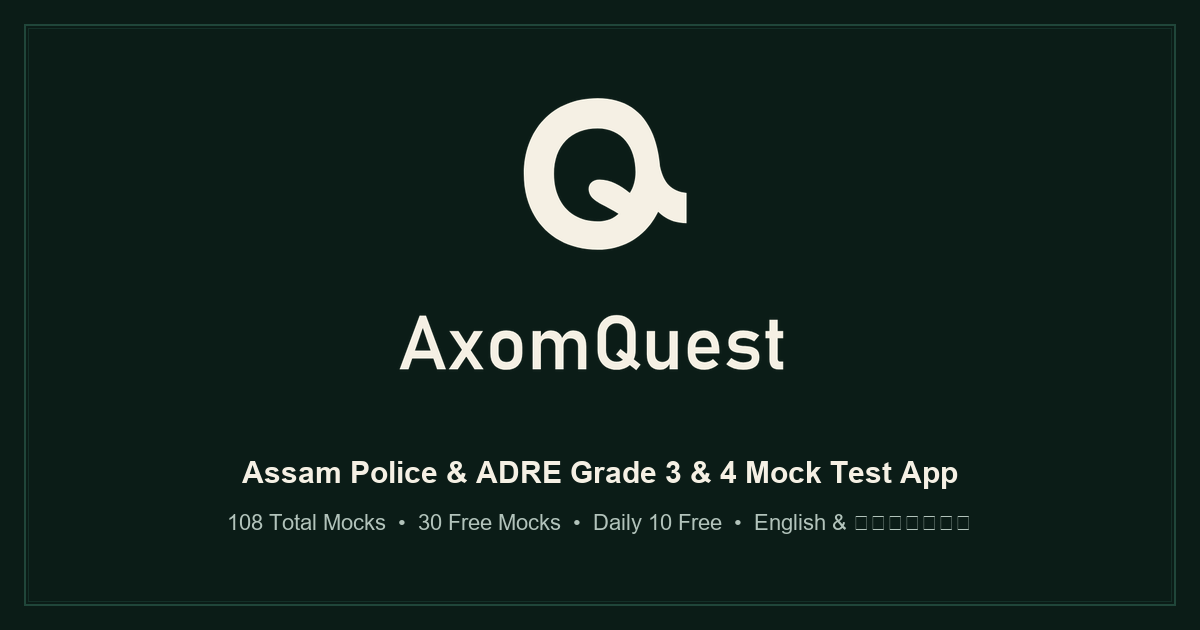
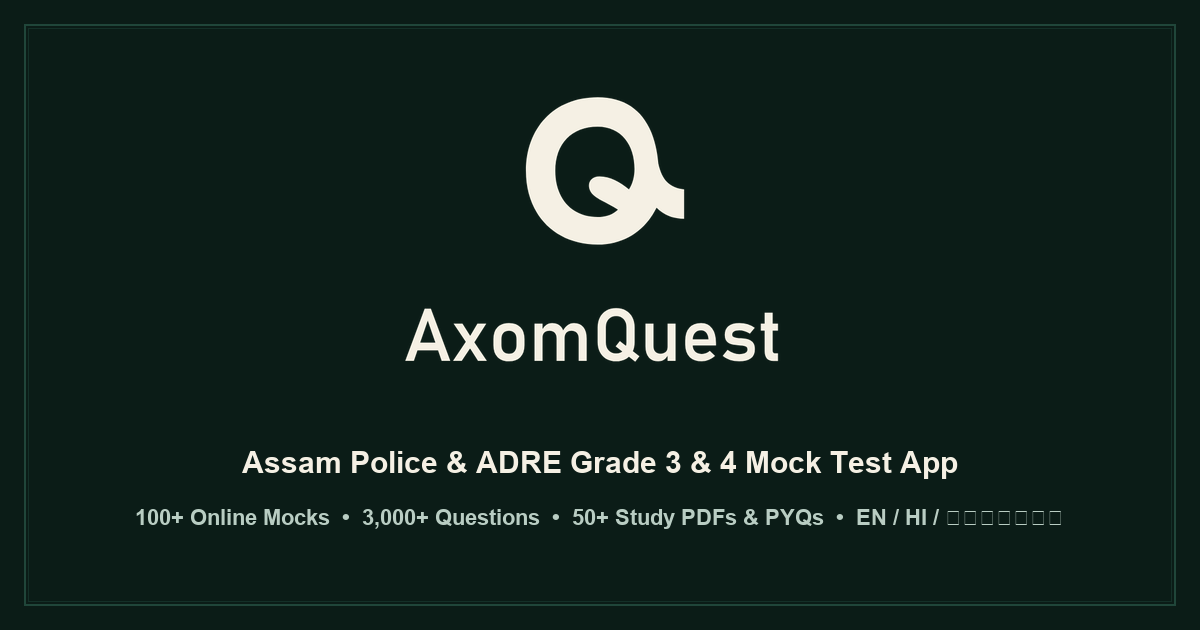
Update mocks count to 100+, questions to 3000+, add Hindi to trust bar, and add 12 free / 50+ Pro study PDFs & PYQs

Changed region(s): [[0.1233, 0.6937, 0.8633, 0.8444], [0.3392, 0.4825, 0.6783, 0.6032], [0.4317, 0.2714, 0.5858, 0.3921]]

diff --git a/index.html b/index.html
@@ -5,9 +5,9 @@
   <meta name="viewport" content="width=device-width, initial-scale=1.0">
   <meta name="theme-color" content="#161A10">
   <title>AxomQuest — Online Mock Tests for Assam Police &amp; ADRE Grade 3 &amp; 4</title>
-  <meta name="description" content="108 online mock tests with authentic negative marking, section-wise analysis and live English / Assamese switch for Assam Police and ADRE Grade 3 &amp; 4 aspirants. 30 free full mocks; AxomQuest Pro at ₹99/month.">
+  <meta name="description" content="100+ online mock tests, 3,000+ practice questions, 50+ study material PDFs &amp; PYQs with live English, Hindi and Assamese switch for Assam Police and ADRE Grade 3 &amp; 4 aspirants. 30 free mocks; AxomQuest Pro at ₹99/month.">
   <meta property="og:title" content="AxomQuest — The mock test that tells you the truth">
-  <meta property="og:description" content="Practice 108 online mocks with authentic scoring for Assam Police and ADRE Grade 3 &amp; 4 examinations. 30 free mocks; upgrade to Pro for ₹99/month.">
+  <meta property="og:description" content="Practice 100+ online mocks, 3,000+ questions, study PDFs &amp; previous year papers for Assam Police and ADRE Grade 3 &amp; 4. 30 free mocks; upgrade to Pro for ₹99/month.">
   <meta property="og:type" content="website">
   <meta property="og:image" content="og-image.png">
   <link rel="icon" type="image/png" sizes="64x64" href="assets/img/icon-64.png">
@@ -23,7 +23,7 @@
     "name": "AxomQuest",
     "operatingSystem": "ANDROID",
     "applicationCategory": "EducationalApplication",
-    "description": "108 online mock tests with authentic negative marking, section-wise scores and an English, Hindi and Assamese switch for Assam Police and ADRE Grade 3 & 4 aspirants. 30 free mocks; AxomQuest Pro monthly subscription at ₹99/month.",
+    "description": "100+ online mock tests, 3,000+ questions, 50+ study materials & PDF notes and previous year papers with English, Hindi and Assamese switch for Assam Police and ADRE Grade 3 & 4 aspirants. 30 free mocks; AxomQuest Pro monthly subscription at ₹99/month.",
     "inLanguage": ["en", "hi", "as"],
     "offers": {
       "@type": "Offer",
@@ -40,12 +40,12 @@
       {
         "@type": "Question",
         "name": "Are the mock tests really free?",
-        "acceptedAnswer": { "@type": "Answer", "text": "Yes. Mocks 001–030 and Daily 10 practice are completely free and supported by ads. To practice premium mocks (031–108), an optional AxomQuest Pro subscription is available." }
+        "acceptedAnswer": { "@type": "Answer", "text": "Yes. Mocks 001–030, Daily 10 practice, and 12 study materials are completely free and supported by ads. To practice all 100+ mocks, access 50+ study material PDFs, and previous year question papers, an optional AxomQuest Pro subscription is available." }
       },
       {
         "@type": "Question",
         "name": "What does AxomQuest Pro unlock?",
-        "acceptedAnswer": { "@type": "Answer", "text": "AxomQuest Pro unlocks premium mocks 031 through 108 and provides an ad-free practice experience. It is an auto-renewing monthly subscription at ₹99/month through Google Play that can be cancelled anytime." }
+        "acceptedAnswer": { "@type": "Answer", "text": "AxomQuest Pro unlocks all 100+ online mock tests, 50+ study materials & PDF notes, and previous year question papers (PYQs) with an ad-free experience. It is an auto-renewing monthly subscription at ₹99/month through Google Play that can be cancelled anytime." }
       },
       {
         "@type": "Question",
@@ -130,9 +130,9 @@
           </h1>
 
           <p class="hero-sub">
-            108 full-length online mock tests with authentic negative marking, section-wise analysis, and live
-            English, Hindi and Assamese switch — engineered specifically for <strong>Assam Police (SI &amp; Constable)</strong>
-            and <strong>ADRE Grade 3 &amp; 4</strong> aspirants. <strong>30 free full mocks</strong> to start; upgrade to AxomQuest Pro for ₹99/month.
+            100+ full-length online mock tests, 3,000+ practice questions, 50+ study material PDFs &amp; previous year question papers (PYQs)
+            with live English, Hindi and Assamese switch — engineered specifically for <strong>Assam Police (SI &amp; Constable)</strong>
+            and <strong>ADRE Grade 3 &amp; 4</strong> aspirants. <strong>30 free full mocks &amp; 12 free study materials</strong> to start; upgrade to AxomQuest Pro for ₹99/month.
           </p>
 
           <div class="hero-actions">
@@ -145,10 +145,11 @@
             <a class="btn btn-ghost btn-lg" href="#try">Try a Free Question</a>
           </div>
           <div class="hero-trust-bar">
-            <span class="trust-pill"><svg width="14" height="14" viewBox="0 0 24 24" fill="currentColor" aria-hidden="true"><path d="M9 16.2L4.8 12l-1.4 1.4L9 19 21 7l-1.4-1.4L9 16.2z"/></svg> 108 Full Mocks</span>
+            <span class="trust-pill"><svg width="14" height="14" viewBox="0 0 24 24" fill="currentColor" aria-hidden="true"><path d="M9 16.2L4.8 12l-1.4 1.4L9 19 21 7l-1.4-1.4L9 16.2z"/></svg> 100+ Full Mocks</span>
             <span class="trust-pill"><svg width="14" height="14" viewBox="0 0 24 24" fill="currentColor" aria-hidden="true"><path d="M9 16.2L4.8 12l-1.4 1.4L9 19 21 7l-1.4-1.4L9 16.2z"/></svg> 30 Free Forever</span>
             <span class="trust-pill"><svg width="14" height="14" viewBox="0 0 24 24" fill="currentColor" aria-hidden="true"><path d="M9 16.2L4.8 12l-1.4 1.4L9 19 21 7l-1.4-1.4L9 16.2z"/></svg> Daily 10 Sets</span>
-            <span class="trust-pill"><svg width="14" height="14" viewBox="0 0 24 24" fill="currentColor" aria-hidden="true"><path d="M9 16.2L4.8 12l-1.4 1.4L9 19 21 7l-1.4-1.4L9 16.2z"/></svg> EN &amp; অসমীয়া</span>
+            <span class="trust-pill"><svg width="14" height="14" viewBox="0 0 24 24" fill="currentColor" aria-hidden="true"><path d="M9 16.2L4.8 12l-1.4 1.4L9 19 21 7l-1.4-1.4L9 16.2z"/></svg> English, Hindi &amp; অসমীয়া</span>
+            <span class="trust-pill"><svg width="14" height="14" viewBox="0 0 24 24" fill="currentColor" aria-hidden="true"><path d="M9 16.2L4.8 12l-1.4 1.4L9 19 21 7l-1.4-1.4L9 16.2z"/></svg> 50+ Study PDFs &amp; PYQs</span>
           </div>
 
           <p class="hero-fineprint">
@@ -191,11 +192,11 @@
           <div class="hero-rule" aria-hidden="true"></div>
           <div class="stat-row">
             <div class="stat">
-              <span class="stat-num"><span data-count="2686">2,686</span></span>
+              <span class="stat-num"><span data-count="3000" data-suffix="+">3,000+</span></span>
               <span class="stat-label">Practice questions</span>
             </div>
             <div class="stat">
-              <span class="stat-num"><span data-count="108">108</span></span>
+              <span class="stat-num"><span data-count="100" data-suffix="+">100+</span></span>
               <span class="stat-label">Online mock tests</span>
             </div>
             <div class="stat">
@@ -203,8 +204,8 @@
               <span class="stat-label">Free full mocks</span>
             </div>
             <div class="stat">
-              <span class="stat-num"><span data-count="3">3</span></span>
-              <span class="stat-label">Languages in-test</span>
+              <span class="stat-num"><span data-count="50" data-suffix="+">50+</span></span>
+              <span class="stat-label">Study PDFs &amp; PYQs</span>
             </div>
           </div>
         </div>
@@ -230,11 +231,11 @@
 
         <div class="feature-grid">
           <article class="feature-card tilt">
-            <h3>30 free mocks. Daily 10 included.</h3>
+            <h3>30 free mocks. Daily 10 &amp; 12 study PDFs.</h3>
             <p>
-              Start practicing immediately at no cost. Mocks 001–030 and Daily 10 sets
-              are completely free to attempt. The free tier is supported by <strong>ads</strong>,
-              so your foundational practice is never locked away.
+              Start practicing immediately at no cost. Mocks 001–030, Daily 10 practice sets,
+              and <strong>12 curated study materials &amp; PDF notes</strong> are completely free to access.
+              The free tier is supported by ads, so your foundational preparation is never locked away.
             </p>
             <figure class="mini-visual mini-answer" aria-hidden="true">
               <div class="mini-q">
@@ -304,11 +305,11 @@
           </article>
 
           <article class="feature-card tilt">
-            <h3>Transparent Pro subscription.</h3>
+            <h3>All 100+ mocks &amp; 50+ study PDFs unlocked.</h3>
             <p>
-              Upgrade to AxomQuest Pro for <strong>₹99/month</strong> to unlock all 108 online
-              mock tests and practice ad-free. Billed monthly through Google Play with the
-              freedom to cancel anytime.
+              Upgrade to AxomQuest Pro for <strong>₹99/month</strong> to unlock the complete library of
+              <strong>100+ online mock tests</strong>, all <strong>50+ study materials &amp; PDF notes</strong>,
+              and <strong>Previous Year Question Papers (PYQs)</strong> with an ad-free experience.
             </p>
             <div class="mini-visual">
               <div class="stamp" data-reveal="stamp" role="img" aria-label="Stamp: 99 rupees per month, AxomQuest Pro">
@@ -453,34 +454,39 @@
                   <td class="is-ours">₹99 / month</td>
                 </tr>
                 <tr>
-                  <th scope="row">Core practice (Mocks 001–030)</th>
-                  <td>Included (30 free)</td>
-                  <td class="is-ours">Included</td>
-                </tr>
-                <tr>
-                  <th scope="row">Full question bank</th>
+                  <th scope="row">Online mock tests</th>
                   <td>30 free mocks</td>
                   <td class="is-ours">Full access to 100+ mocks*</td>
                 </tr>
                 <tr>
-                  <th scope="row">Daily 10 practice</th>
-                  <td>Included</td>
-                  <td class="is-ours">Included</td>
+                  <th scope="row">Daily 10 high-yield sets</th>
+                  <td>Included (free forever)</td>
+                  <td class="is-ours">Included (free forever)</td>
                 </tr>
                 <tr>
-                  <th scope="row">Negative-marking score</th>
+                  <th scope="row">Study materials &amp; PDF notes</th>
+                  <td>12 free study materials</td>
+                  <td class="is-ours">All 50+ study materials unlocked*</td>
+                </tr>
+                <tr>
+                  <th scope="row">Previous Year Question Papers</th>
+                  <td>Locked</td>
+                  <td class="is-ours">All PYQ papers unlocked</td>
+                </tr>
+                <tr>
+                  <th scope="row">Language switch (EN / HI / ASM)</th>
                   <td>Every test</td>
                   <td class="is-ours">Every test</td>
                 </tr>
                 <tr>
-                  <th scope="row">EN / HI / ASM in test</th>
+                  <th scope="row">Negative marking &amp; score analysis</th>
                   <td>Every test</td>
                   <td class="is-ours">Every test</td>
                 </tr>
                 <tr>
-                  <th scope="row">Test experience</th>
+                  <th scope="row">Ad-free study experience</th>
                   <td>Ad-supported</td>
-                  <td class="is-ours">Ad-free</td>
+                  <td class="is-ours">100% Ad-free</td>
                 </tr>
                 <tr>
                   <th scope="row">Cancellation</th>
@@ -501,7 +507,7 @@
               Billed monthly through Google Play. Auto-renews until cancelled in Google Play. Cancellation stops future renewals and Pro access continues through the current paid billing period.
             </p>
             <p class="premium-note" style="margin-top: 10px; font-size: 0.85rem; color: var(--ink-soft);">
-              <em>*Full access includes all 100+ total mocks in the app (including the 30 free mocks). Historical lifetime purchases remain fully respected and unlock premium mocks without subscribing.</em>
+              <em>*AxomQuest Pro unlocks full access to 100+ total online mocks, 50+ study material PDFs, and previous year question papers (PYQs). Free tier includes 30 free mocks and 12 study materials. Historical lifetime purchases remain fully respected without subscribing.</em>
             </p>
             <div class="cta-row">
               <a class="btn btn-primary btn-lg magnetic" href="https://play.google.com/store/apps/details?id=com.rupjyoti.missionkhaki" rel="noopener">
@@ -540,11 +546,11 @@
 
         <div class="faq-list" data-reveal="rise">
           <details class="faq-item">
-            <summary>Are the mock tests really free?
+            <summary>Are the mock tests and study materials really free?
               <span class="faq-plus" aria-hidden="true"></span>
             </summary>
             <div class="faq-body">
-              <p>Yes. Mocks 001–030 and Daily 10 practice are completely free and supported by ads. To practice premium mocks (031–108), an optional AxomQuest Pro subscription is available.</p>
+              <p>Yes. Mocks 001–030, Daily 10 practice sets, and 12 curated study material PDFs are completely free to use and supported by ads. To access the full library of 100+ mocks, 50+ study materials &amp; notes, and previous year question papers (PYQs), an optional AxomQuest Pro subscription is available for ₹99/month.</p>
             </div>
           </details>
 
@@ -553,7 +559,7 @@
               <span class="faq-plus" aria-hidden="true"></span>
             </summary>
             <div class="faq-body">
-              <p>AxomQuest Pro unlocks premium mocks 031 through 108 and provides an ad-free practice experience. It is an auto-renewing monthly subscription at ₹99/month through Google Play that can be cancelled anytime.</p>
+              <p>AxomQuest Pro unlocks full access to all 100+ online mock tests, complete access to 50+ study materials &amp; PDF notes (free tier includes 12 study materials), and Previous Year Question Papers (PYQs), alongside an ad-free experience. It is an auto-renewing monthly subscription at ₹99/month through Google Play that can be cancelled anytime.</p>
             </div>
           </details>
 
@@ -668,7 +674,7 @@
           </svg>
           <span class="brand-text">Axom<span class="brand-khaki">Quest</span></span>
         </a>
-        <p>108 online mock tests for Assam Police and ADRE Grade 3 &amp; 4 exams. 30 free mocks. AxomQuest Pro subscription at ₹99/month.</p>
+        <p>100+ online mock tests, 3,000+ questions, and 50+ study PDFs &amp; PYQs for Assam Police and ADRE Grade 3 &amp; 4 exams. 30 free mocks &amp; 12 free study PDFs. AxomQuest Pro at ₹99/month.</p>
         <p class="footer-disc">Independent app — not affiliated with any government or recruitment board.</p>
       </div>
 

diff --git a/terms.html b/terms.html
@@ -154,7 +154,7 @@
         <section id="free-tier">
           <h2>5. Free tier and ads</h2>
           <ul>
-            <li>Core mock tests (Mocks 001–030) and Daily 10 practice are free to attempt.</li>
+            <li>Core mock tests (Mocks 001–030), Daily 10 practice sets, and 12 curated study materials are free to access.</li>
             <li>Where advertising is enabled, the free tier is supported by advertisements served through Google AdMob. Ad content is provided by third parties and is subject to Google’s policies.</li>
             <li>We may change, update, or discontinue features of the free tier over time.</li>
           </ul>
@@ -170,7 +170,7 @@
               <strong>Automatic Renewal:</strong> The subscription automatically renews on a monthly basis unless cancelled at least 24 hours prior to the end of the current billing period. Google Play charges your registered payment method automatically upon renewal.
             </li>
             <li>
-              <strong>Pro Benefits:</strong> Pro unlocks full access to 100+ online mock tests (including 30 free mocks) and provides an ad-free practice experience. Note: AxomQuest does not offer or bundle PDF downloads or study notes.
+              <strong>Pro Benefits:</strong> Pro unlocks full access to 100+ online mock tests (including 30 free mocks), full access to 50+ study materials &amp; PDF notes (free tier includes 12 study materials), and Previous Year Question Papers (PYQs), alongside an ad-free practice experience.
             </li>
             <li>
               <strong>How to Cancel:</strong> You can cancel your subscription at any time directly through Google Play:
@@ -290,7 +290,7 @@
           </svg>
           <span class="brand-text">Axom<span class="brand-khaki">Quest</span></span>
         </a>
-        <p>Online mock tests for Assam Police and ADRE Grade 3 &amp; 4 exams. Free practice on core mocks. AxomQuest Pro subscription at ₹99/month.</p>
+        <p>100+ online mock tests, 3,000+ questions, and 50+ study PDFs &amp; PYQs for Assam Police and ADRE Grade 3 &amp; 4 exams. 30 free mocks &amp; 12 free study PDFs. AxomQuest Pro at ₹99/month.</p>
         <p class="footer-disc">Independent app — not affiliated with any government or recruitment board.</p>
       </div>
 

diff --git a/privacy.html b/privacy.html
@@ -177,7 +177,7 @@
         <section id="advertising">
           <h2>4. Advertising and consent</h2>
           <p>
-            Core practice features (Mocks 001–030 and Daily 10) are free to all users and may be supported by advertisements served through <strong>Google AdMob</strong>.
+            Core practice features (Mocks 001–030, Daily 10 practice sets, and 12 study materials) are free to all users and may be supported by advertisements served through <strong>Google AdMob</strong>.
           </p>
           <ul>
             <li>
@@ -294,7 +294,7 @@
           </svg>
           <span class="brand-text">Axom<span class="brand-khaki">Quest</span></span>
         </a>
-        <p>Online mock tests for Assam Police and ADRE Grade 3 &amp; 4 exams. 30 free mocks. AxomQuest Pro subscription at ₹99/month.</p>
+        <p>100+ online mock tests, 3,000+ questions, and 50+ study PDFs &amp; PYQs for Assam Police and ADRE Grade 3 &amp; 4 exams. 30 free mocks &amp; 12 free study PDFs. AxomQuest Pro at ₹99/month.</p>
         <p class="footer-disc">Independent app — not affiliated with any government or recruitment board.</p>
       </div>
 

diff --git a/delete-account.html b/delete-account.html
@@ -203,7 +203,7 @@
           </svg>
           <span class="brand-text">Axom<span class="brand-khaki">Quest</span></span>
         </a>
-        <p>Online mock tests for Assam Police and ADRE Grade 3 &amp; 4 exams. Free practice on core mocks. AxomQuest Pro subscription at ₹99/month.</p>
+        <p>100+ online mock tests, 3,000+ questions, and 50+ study PDFs &amp; PYQs for Assam Police and ADRE Grade 3 &amp; 4 exams. 30 free mocks &amp; 12 free study PDFs. AxomQuest Pro at ₹99/month.</p>
         <p class="footer-disc">Independent app — not affiliated with any government or recruitment board.</p>
       </div>
 

diff --git a/README.md b/README.md
@@ -7,10 +7,10 @@ A static marketing and legal website for **AxomQuest**, an Android competitive-e
 
 ## About the app
 
-**AxomQuest** is an Android app for competitive examination preparation. It features 108 online mock tests with authentic negative marking, section-wise score analytics (GK / Maths / Reasoning / English), and instant English / Hindi / Assamese question translation during tests.
+**AxomQuest** is an Android app for competitive examination preparation. It features 100+ online mock tests, 3,000+ questions, 50+ study materials & PDF notes (12 free on free tier), and previous year question papers (PYQs) with authentic negative marking, section-wise score analytics, and instant English / Hindi / Assamese question translation during tests.
 
 - **Free Tier:** 30 full-length online mocks (Mocks 001–030) and Daily 10 practice are completely free (ad-supported).
-- **AxomQuest Pro:** An optional monthly auto-renewing subscription at ₹99/month (for India) through Google Play Billing unlocking premium mocks (031–108) with an ad-free experience.
+- **AxomQuest Pro:** An optional monthly auto-renewing subscription at ₹99/month (for India) through Google Play Billing unlocking 100+ total mocks, 50+ study material PDFs, and previous year question papers (PYQs) with an ad-free experience.
 - **Historical Lifetime Rights:** Existing users with historical one-time purchases (`mission_khaki_one_time_pro`) retain full access to premium mocks without paying a subscription.
 
 > **Independent Developer Disclosure:** AxomQuest is an independent, privately developed app. The site clearly states that it is **not affiliated with, endorsed by, or connected to any government or defence organisation**.
